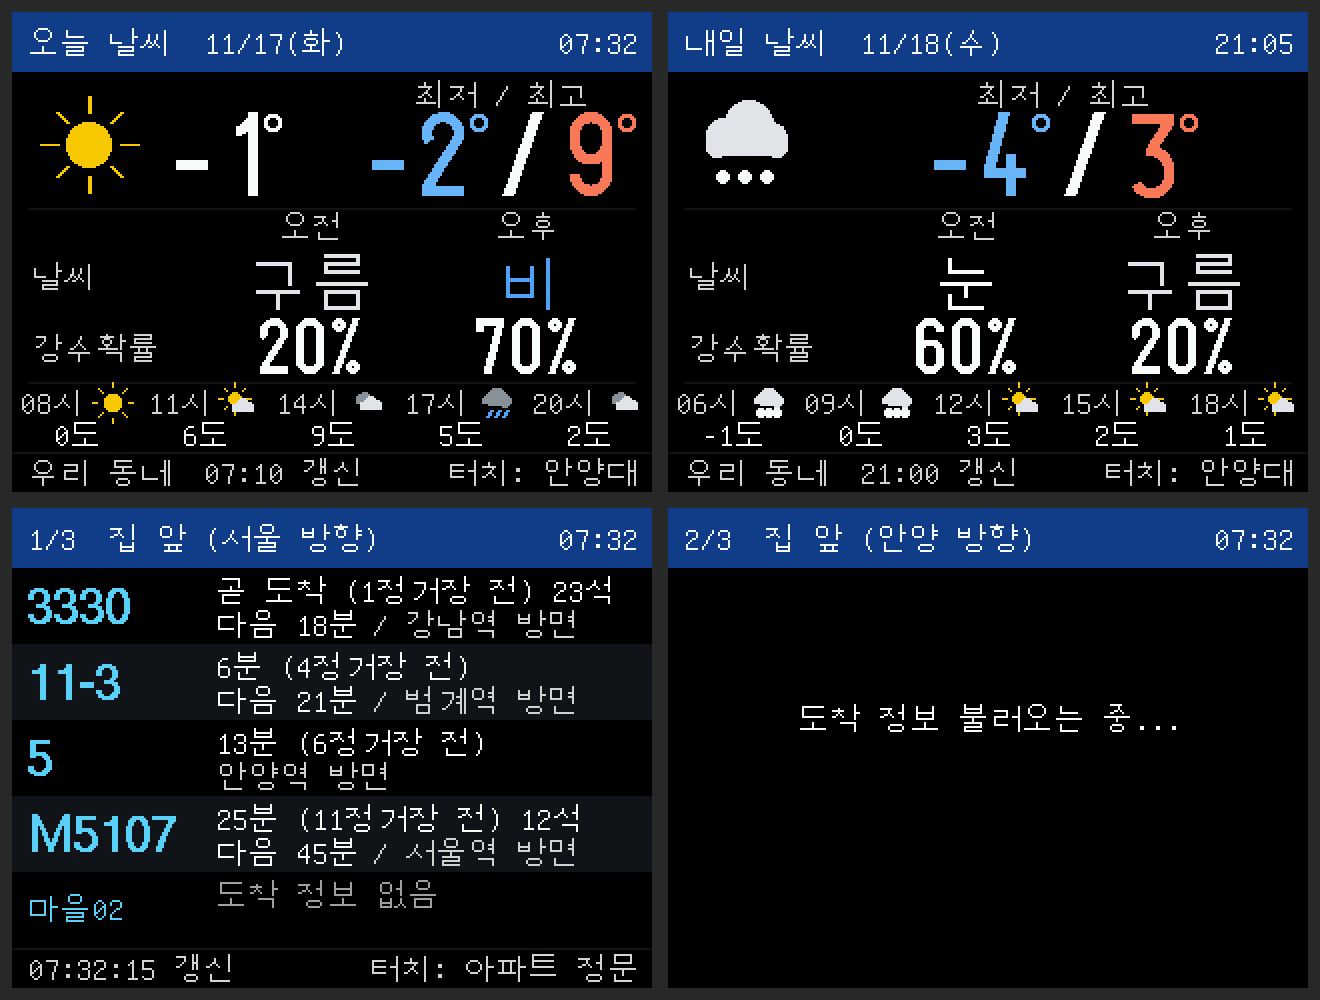
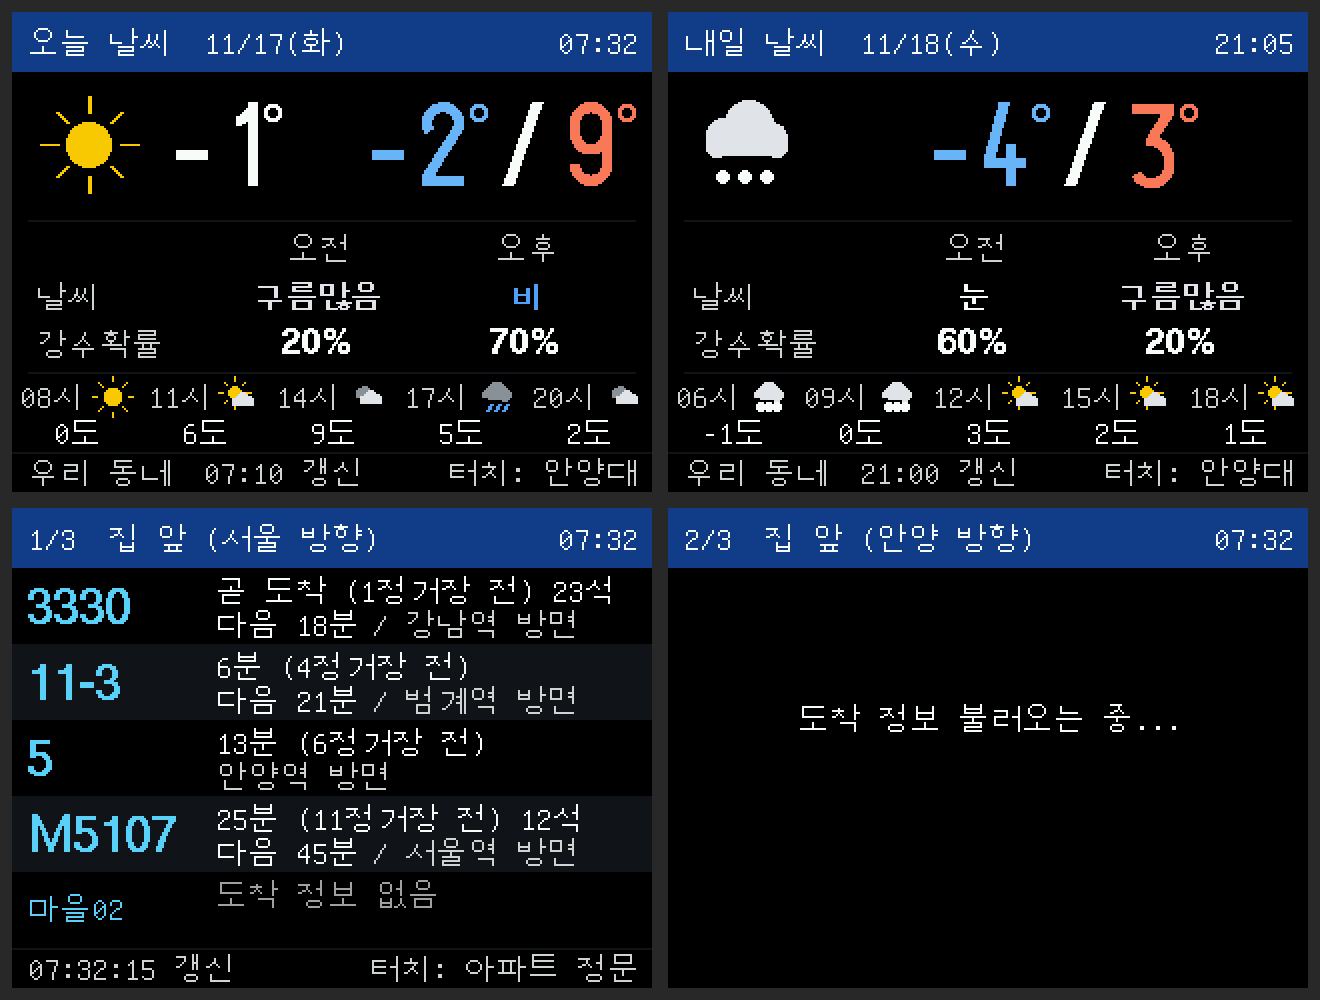
날씨 화면: 최저/최고 글자 삭제, 오전/오후 표 글자를 이름표 크기로
- '최저 / 최고' 글자를 지우고 기온 숫자를 날씨 그림과 같은 높이에
- 표의 날씨(굵은 16픽셀, 색깔)와 강수확률(굵은 숫자)을 '날씨', '강수확률' 이름표와 비슷한 크기로
- 글자가 작아져서 '구름많음' 을 줄이지 않고 그대로 씀

Claude-Session: https://claude.ai/code/session_01JmD3neNDVVxj1jPjcyheg5

diff --git a/esp32-bus-display/BusArrivalDisplay/display.cpp b/esp32-bus-display/BusArrivalDisplay/display.cpp
@@ -588,26 +588,16 @@ static const uint8_t* minMaxFont(int16_t maxW, int tmin, int tmax, int16_t* outW
   return fonts[3];
 }
 
-// "최저 / 최고" 글자와 그 아래 숫자(파랑 / 빨강)를 [x0, x1] 칸의 가운데에 맞춰 그립니다.
-static void drawMinMax(int16_t x0, int16_t x1, int16_t labelBase, int16_t numBase, bool have,
-                       int tmin, int tmax) {
-  const int16_t cx = (x0 + x1) / 2;
-  useFont(FONT_KOREAN);
-  drawCenteredAt(cx, labelBase, "최저 / 최고", C_TEXT2);
-  if (!have) return;
+// 최저 / 최고 기온 숫자(파랑 / 빨강)를 [x0, x1] 칸의 가운데에 그립니다.
+static void drawMinMax(int16_t x0, int16_t x1, int16_t numBase, int tmin, int tmax) {
   int16_t blockW;
   const uint8_t* font = minMaxFont(x1 - x0, tmin, tmax, &blockW);
-  int16_t x = cx - blockW / 2;
+  int16_t x = (x0 + x1) / 2 - blockW / 2;
   x += drawBigTemp(x, numBase, tmin, C_COLD, font);
   useFont(font);
   drawText(x + 2, numBase, "/", C_TEXT);
   x += u8f.getUTF8Width("/") + 12;
   drawBigTemp(x, numBase, tmax, C_HOT, font);
-}
-
-// 표에는 크게 쓰려고 짧은 이름을 씁니다 ("구름많음" -> "구름")
-static const char* shortConditionName(weather::Condition c) {
-  return c == weather::COND_PARTLY ? "구름" : weather::conditionName(c);
 }
 
 // 날씨 글자 색: 맑음 노랑, 비 파랑, 눈 흰색, 구름 회색
@@ -627,50 +617,43 @@ static uint16_t conditionColor(weather::Condition c) {
 
 // ----- 오전 / 오후 표 -----
 //            오전        오후
-//   날씨     맑음        비        (2배 크기, 색깔)
-//   강수확률  0%         70%       (큰 숫자)
-static const int16_t TABLE_LABEL_X = 10;
-static const int16_t TABLE_COL_X[2] = {148, 256};  // 오전, 오후 칸의 가운데
-static const int16_t TABLE_HEAD_Y = 113;            // "오전 / 오후" 바닥선
-static const int16_t TABLE_COND_Y = 147;            // 날씨(2배 글자) 바닥선
-static const int16_t TABLE_POP_Y = 181;             // 강수확률 숫자 바닥선
-static const int16_t TABLE_COL_MAX_W = 104;
+//   날씨     맑음        비        (이름표와 같은 크기, 굵게, 색깔)
+//   강수확률  0%         70%
+static const int16_t TABLE_LABEL_X = 12;
+static const int16_t TABLE_COL_X[2] = {152, 256};  // 오전, 오후 칸의 가운데
+static const int16_t TABLE_HEAD_Y = 124;            // "오전 / 오후" 바닥선
+static const int16_t TABLE_COND_Y = 148;            // 날씨 줄 바닥선
+static const int16_t TABLE_POP_Y = 172;             // 강수확률 줄 바닥선
 
-static void drawConditionCell(int16_t cx, weather::Condition c) {
-  const char* name = shortConditionName(c);
-  uint16_t color = conditionColor(c);
-  int16_t w2 = bigWidth(name);
-  if (w2 <= TABLE_COL_MAX_W) {
-    drawBig(cx - w2 / 2, TABLE_COND_Y, name, color);
-  } else {
-    useFont(FONT_KOREAN);
-    drawCenteredAt(cx, TABLE_COND_Y - 8, name, color);
-  }
-}
-
-static void drawPopCell(int16_t cx, int pop) {
-  char buf[8];
-  if (pop >= 0) {
-    snprintf(buf, sizeof(buf), "%d%%", pop);
-  } else {
-    snprintf(buf, sizeof(buf), "-");
-  }
-  useFont(u8g2_font_logisoso28_tr);
-  drawCenteredAt(cx, TABLE_POP_Y, buf, C_TEXT);
+// 한글 글꼴은 16픽셀 하나뿐이라, 1픽셀 옆에 한 번 더 그려서 굵게 보이게 합니다.
+static void drawBoldCenteredAt(int16_t cx, int16_t baseline, const char* text, uint16_t color) {
+  int16_t x = cx - (u8f.getUTF8Width(text) + 1) / 2;
+  drawText(x, baseline, text, color);
+  drawText(x + 1, baseline, text, color);
 }
 
 static void drawAmPmTable(weather::Condition am, weather::Condition pm, int popAm, int popPm) {
   useFont(FONT_KOREAN);
   drawCenteredAt(TABLE_COL_X[0], TABLE_HEAD_Y, "오전", C_TEXT2);
   drawCenteredAt(TABLE_COL_X[1], TABLE_HEAD_Y, "오후", C_TEXT2);
-  // 이름표는 각 줄 글자의 세로 가운데에 맞춥니다.
-  drawText(TABLE_LABEL_X, TABLE_COND_Y - 9, "날씨", C_TEXT2);
-  drawText(TABLE_LABEL_X, TABLE_POP_Y - 7, "강수확률", C_TEXT2);
+  drawText(TABLE_LABEL_X, TABLE_COND_Y, "날씨", C_TEXT2);
+  drawText(TABLE_LABEL_X, TABLE_POP_Y, "강수확률", C_TEXT2);
 
-  drawConditionCell(TABLE_COL_X[0], am);
-  drawConditionCell(TABLE_COL_X[1], pm);
-  drawPopCell(TABLE_COL_X[0], popAm);
-  drawPopCell(TABLE_COL_X[1], popPm);
+  const weather::Condition cond[2] = {am, pm};
+  const int pop[2] = {popAm, popPm};
+  for (int i = 0; i < 2; i++) {
+    useFont(FONT_KOREAN);
+    drawBoldCenteredAt(TABLE_COL_X[i], TABLE_COND_Y, weather::conditionName(cond[i]),
+                       conditionColor(cond[i]));
+    char buf[8];
+    if (pop[i] >= 0) {
+      snprintf(buf, sizeof(buf), "%d%%", pop[i]);
+    } else {
+      snprintf(buf, sizeof(buf), "-");
+    }
+    useFont(u8g2_font_helvB14_tf);  // 한글 16픽셀 글자와 비슷한 높이의 굵은 숫자
+    drawCenteredAt(TABLE_COL_X[i], TABLE_POP_Y - 1, buf, C_TEXT);
+  }
 }
 
 // 시간별 예보 한 칸 (5칸 중 col 번째): 윗줄 "08시 (그림)", 아랫줄 "3도"
@@ -683,15 +666,15 @@ static void drawHourSlot(int col, int hour, const weather::Hour* h) {
   int16_t tw = u8f.getUTF8Width(buf);
   const int16_t iconS = 20, gap = 7;
   int16_t x = cx - (tw + gap + iconS) / 2;
-  drawText(x, 201, buf, C_TEXT2);
-  drawWeatherIcon(x + tw + gap + iconS / 2, 195, iconS, weather::hourCondition(*h));
+  drawText(x, 198, buf, C_TEXT2);
+  drawWeatherIcon(x + tw + gap + iconS / 2, 192, iconS, weather::hourCondition(*h));
   if (h->temp != weather::UNKNOWN) {
     snprintf(buf, sizeof(buf), "%d도", h->temp);
   } else {
     snprintf(buf, sizeof(buf), "-");
   }
   useFont(FONT_KOREAN);
-  drawCenteredAt(cx, 217, buf, C_TEXT);
+  drawCenteredAt(cx, 216, buf, C_TEXT);
 }
 
 static void drawWeatherBody(const WeatherData& w, int nowHour) {
@@ -707,11 +690,11 @@ static void drawWeatherBody(const WeatherData& w, int nowHour) {
   const int tmax = haveMinMax ? roundTemp(day.tmax10) : 0;
 
   // ----- 윗줄: 날씨 그림 / (오늘) 지금 기온 / 최저·최고 -----
-  const int16_t numBase = 92, labelBase = 47, iconX = 38, iconY = 66, iconS = 56;
+  const int16_t numBase = 87, iconX = 38, iconY = 66, iconS = 56;
   if (w.tomorrow) {
     int dummy;
     drawWeatherIcon(iconX, iconY, iconS, summarize(day, 6, 19, &dummy));
-    drawMinMax(80, W - 6, labelBase, numBase, haveMinMax, tmin, tmax);
+    if (haveMinMax) drawMinMax(80, W - 6, numBase, tmin, tmax);
   } else {
     int8_t sky = (nowHour >= 0 && nowHour < 24) ? day.hours[nowHour].sky : UNKNOWN;
     Condition current;
@@ -730,13 +713,13 @@ static void drawWeatherBody(const WeatherData& w, int nowHour) {
     } else if (nowHour >= 0 && nowHour < 24 && day.hours[nowHour].temp != UNKNOWN) {
       drawBigTemp(76, numBase, day.hours[nowHour].temp, C_TEXT, u8g2_font_logisoso42_tr);
     }
-    drawMinMax(172, W - 4, labelBase, numBase, haveMinMax, tmin, tmax);
+    if (haveMinMax) drawMinMax(172, W - 4, numBase, tmin, tmax);
   }
-  tft.drawFastHLine(8, 98, W - 16, C_ROW_ALT);
+  tft.drawFastHLine(8, 104, W - 16, C_ROW_ALT);
 
   // ----- 가운데: 오전 / 오후 표 -----
   drawAmPmTable(am, pm, popAm, popPm);
-  tft.drawFastHLine(8, 185, W - 16, C_ROW_ALT);
+  tft.drawFastHLine(8, 180, W - 16, C_ROW_ALT);
 
   // ----- 시간별 예보 5칸 (3시간 간격). 오늘은 다음 시각부터, 내일은 06시부터 -----
   int first = w.tomorrow ? 6 : nowHour + 1;

diff --git a/esp32-bus-display/README.md b/esp32-bus-display/README.md
@@ -14,7 +14,7 @@
 
 | 시간 | 화면 |
 |---|---|
-| 06:00 ~ 12:00 | **오늘 날씨** (현재 기온, 최저/최고, 오전/오후 날씨·강수확률 표, 3시간 간격 예보) |
+| 06:00 ~ 12:00 | **오늘 날씨** (현재 기온, 최저/최고(파랑/빨강), 오전/오후 날씨·강수확률 표, 3시간 간격 예보) |
 | 20:00 ~ 23:00 | **내일 날씨** (최저/최고, 오전/오후 날씨·강수확률 표, 시간별 예보) |
 | 그 밖의 시간 | 화면 꺼짐 |
 
